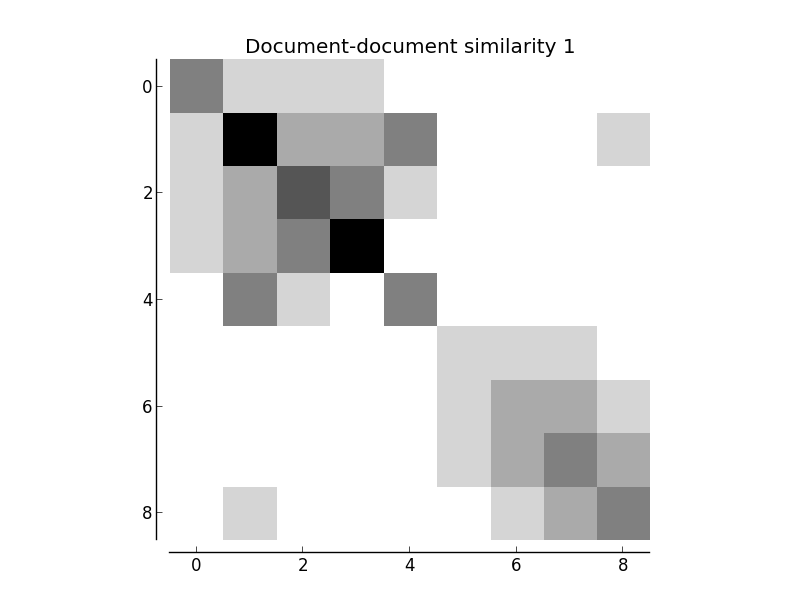
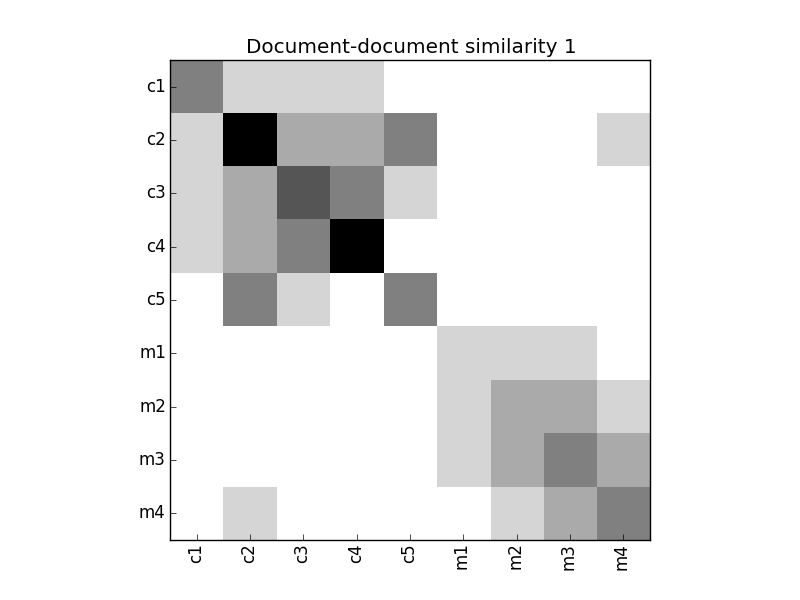
Cleaned up code and images

Changed region(s): [[0.1562, 0.06, 0.8125, 0.9], [0.2188, 0.9, 0.8125, 0.96]]

diff --git a/exercise9/exercise9.py b/exercise9/exercise9.py
@@ -1,14 +1,17 @@
 import numpy as np
 import matplotlib.pyplot as plt
+import sys
 
-def matrix_string(matrix):
+# Round numpy matrix entries to make it easier to read on printing
+def matrix_string(matrix, num_digits=3):
     m = matrix.tolist()
     result = []
     for row in m:
-        result.append("\t".join([str(round(i, 3)) for i in row]))
+        result.append("\t".join([str(round(i, num_digits)) for i in row]))
     return "\n".join(result)
 
-def plot_matrix(matrix, title):
+# Plot the given matrix with a grayscale colormap
+def plot_matrix(matrix, title, labels):
     fig, ax = plt.subplots()
     
     dims = matrix.shape
@@ -16,15 +19,12 @@ def plot_matrix(matrix, title):
     ax.imshow(matrix*-1, cmap=plt.cm.gray, interpolation='nearest')
     ax.set_title(title)
 
-    # Move left and bottom spines outward by 10 points
-    ax.spines['left'].set_position(('outward', dims[0]))
-    ax.spines['bottom'].set_position(('outward', dims[1]))
-    # Hide the right and top spines
-    ax.spines['right'].set_visible(False)
-    ax.spines['top'].set_visible(False)
-    # Only show ticks on the left and bottom spines
     ax.yaxis.set_ticks_position('left')
     ax.xaxis.set_ticks_position('bottom')
+    ax.yaxis.set_ticks(np.arange(0, dims[0], 1.0))
+    ax.yaxis.set_ticklabels(labels)
+    ax.xaxis.set_ticks(np.arange(0, dims[0], 1.0))
+    ax.xaxis.set_ticklabels(labels, rotation=90)
 
     plt.show()
     
@@ -64,27 +64,26 @@ dd3 = (sp * dp).T * (sp * dp)
 tt3 = (tp * sp) * (tp * sp).T
 
 
-
-plot_matrix(dd1, "Document-document similarity 1")
-plot_matrix(dd2, "Document-document similarity 2")
-plot_matrix(dd3, "Document-document similarity 3")
-
-plot_matrix(tt1, "Term-term similarity 1")
-plot_matrix(tt2, "Term-term similarity 2")
-plot_matrix(tt3, "Term-term similarity 3")
-
-
-# print("Task 1 - Document-docment")
-# print(matrix_string(dd1))
-# print("Task 1 - Term-term")
-# print(matrix_string(tt1))
-#
-# print("Task 2 - Document-docment")
-# print(matrix_string(dd2))
-# print("Task 3 - Term-term")
-# print(matrix_string(tt2))
-#
-print("Task 3 - Document-docment")
-print(matrix_string(dd3))
-print("Task 3 - Term-term")
-print(matrix_string(tt3))
+if __name__ == "__main__":
+    args = sys.argv
+    if(len(args) != 3 or args[1] not in ["plot", "print"] or args[2] not in ["terms", "docs"]):
+        print("Usage:")
+        print("python exercise9.py [plot | print] [terms | docs]")
+        exit()
+    
+    if(args[2] == "terms"):
+        matrices = [tt1, tt2, tt3]
+        labels = ['human', 'interface', 'computer', 'user', 'system', 'response', 'time', 'EPS', 'survey', 'trees', 'graph', 'minor']
+        base_title = "Term-term similarity"
+    else:
+        matrices = [dd1, dd2, dd3]
+        labels = ["c1", "c2", "c3", "c4", "c5", "m1", "m2", "m3", "m4"]
+        base_title = "Document-document similarity"
+    
+    for i in range(1, 4):
+        title = base_title + " " + str(i)
+        if(args[1] == "print"):
+            print(title)
+            print(matrix_string(matrices.pop(0)))
+        else:
+            plot_matrix(matrices.pop(0), title, labels)
